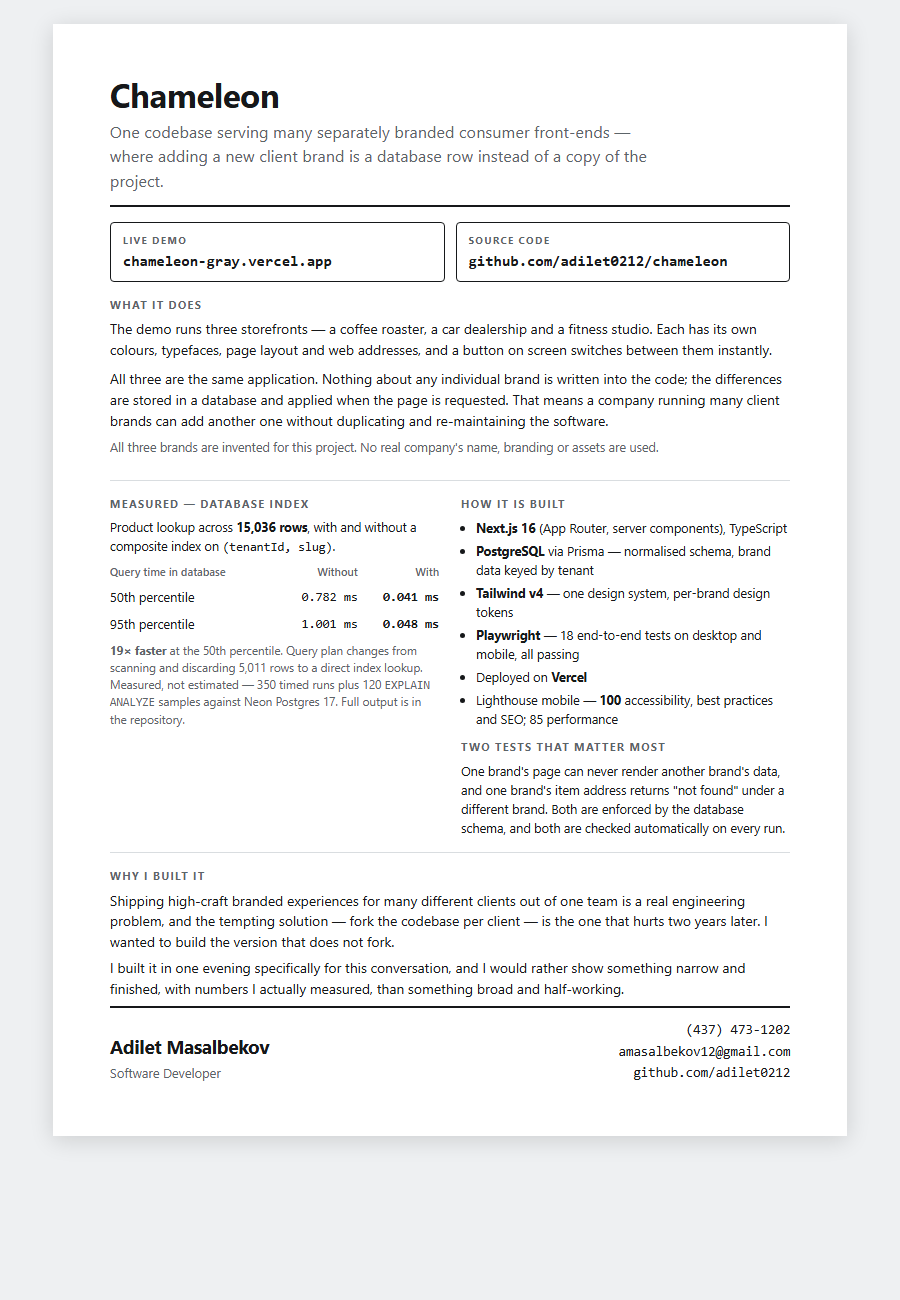
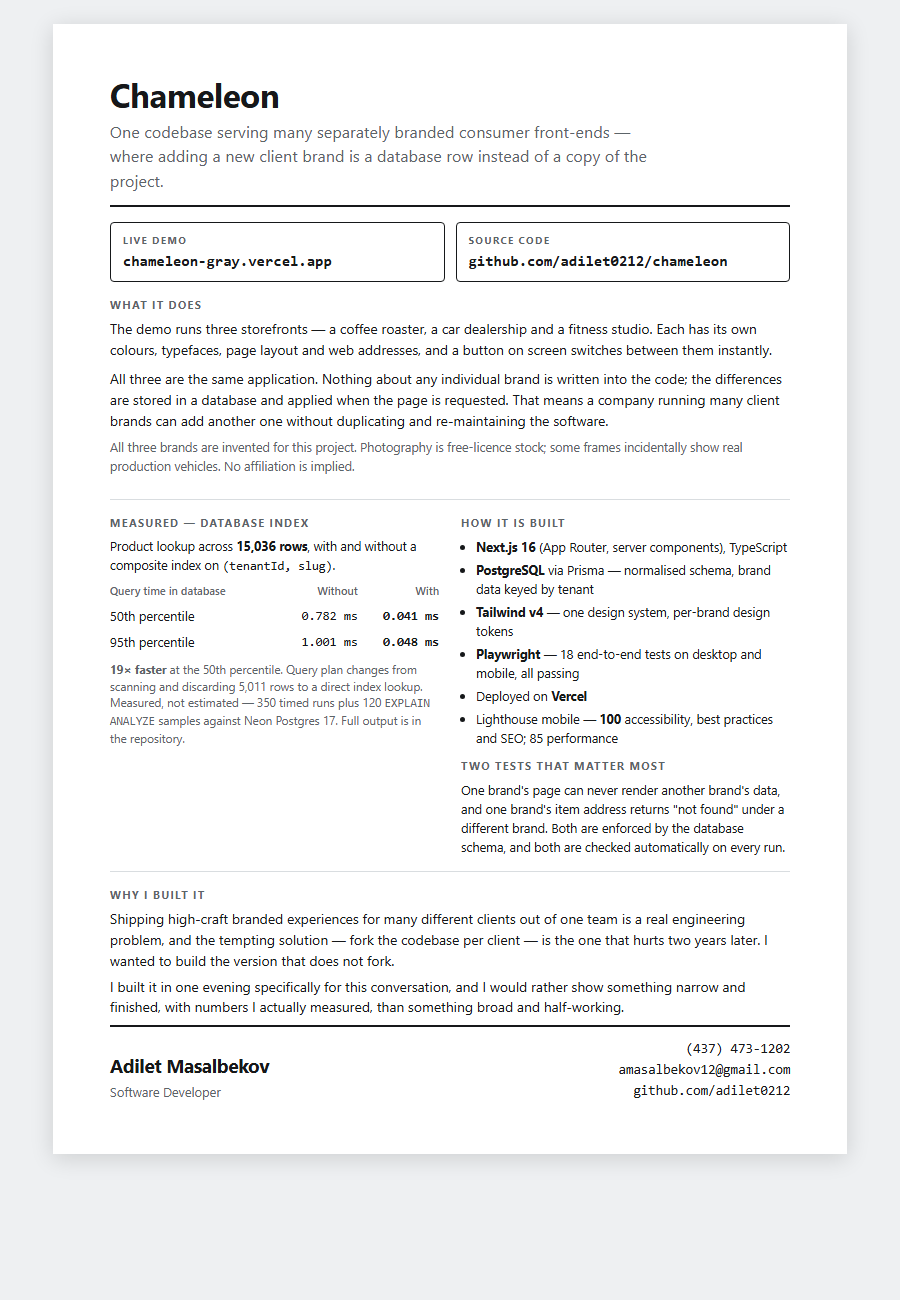
Revert supplied vehicle photography and make the provenance claims accurate
The two supplied images were press photographs of real badged vehicles with
unverified licensing, wired to listings in a project that claimed no real marks
appeared. Both are removed and those listings are back on free-licence stock.

Swapping the images was not sufficient on its own. The stock stand-ins are also
photographs of real cars -- the Range Rover frame carries RANGE ROVER across the
hood and a grille badge -- so the original claim was inaccurate regardless of
which set was used. All four places now state what is actually verifiable: the
brands are invented, the photography is free-licence stock, some frames
incidentally show real production vehicles, and no affiliation is implied.

Also drops 3.1MB of committed binaries.

Changed region(s): [[0.0622, 0.3385, 0.9333, 0.8923], [0.1244, 0.3385, 0.4978, 0.5846]]

diff --git a/prisma/seed.ts b/prisma/seed.ts
@@ -5,8 +5,14 @@ const prisma = new PrismaClient();
 /*
   Seed data.
 
-  All three brands are fictional. Names, copy, colours and imagery are invented for
-  this project — no real company's marks or assets appear anywhere in this repo.
+  All three brands are fictional: the names, copy, palettes, typography and page
+  layouts are invented for this project.
+
+  Photography is free-licence stock from Unsplash. Some frames incidentally show
+  real production vehicles and their badging — unavoidable when the subject is a
+  car and the source is a stock library — so the accurate claim is that the
+  *brands* are invented, not that no real mark appears in any photograph. Nothing
+  here implies affiliation with or endorsement by any real company.
 
   Two tiers of product data:
     - A hand-written set per brand. These are what a visitor actually sees and
@@ -293,7 +299,7 @@ const northaven = {
     },
     {
       slug: "haulmark-1500",
-      imageUrl: "/vehicles/fordpickup.png",
+      imageUrl: "https://images.unsplash.com/photo-1563720223185-11003d516935",
       name: "Haulmark 1500",
       blurb: "Half-ton pickup. 3.5L V6, 4x4.",
       description:
@@ -303,7 +309,7 @@ const northaven = {
     },
     {
       slug: "haulmark-2500-hd",
-      imageUrl: "/vehicles/ram.jpg",
+      imageUrl: "https://images.unsplash.com/photo-1533473359331-0135ef1b58bf",
       name: "Haulmark 2500 HD",
       blurb: "Three-quarter ton. Diesel.",
       description:
@@ -364,7 +370,7 @@ const northaven = {
     },
     {
       slug: "haulmark-1500-cpo-2020",
-      imageUrl: "/vehicles/ram.jpg",
+      imageUrl: "https://images.unsplash.com/photo-1563720223185-11003d516935",
       name: "Haulmark 1500 — Certified, 2020",
       blurb: "112,000 km. Fleet-maintained.",
       description:

diff --git a/src/app/page.tsx b/src/app/page.tsx
@@ -150,7 +150,9 @@ export default async function Index() {
 
       <footer className="mt-16 border-t border-hairline pt-8 text-sm text-muted">
         <p>
-          All three brands are fictional. Built by Adilet Masalbekov ·{" "}
+          All three brands are fictional — names, copy, palettes and layouts are
+          invented for this project. Photography is free-licence stock from
+          Unsplash. Built by Adilet Masalbekov ·{" "}
           <a
             href="https://github.com/adilet0212"
             className="font-medium text-ink underline underline-offset-4"

diff --git a/docs/handout.html b/docs/handout.html
@@ -128,7 +128,7 @@
     without duplicating and re-maintaining the software.
   </p>
   <p style="font-size:9.4pt;color:var(--muted);">
-    All three brands are invented for this project. No real company's name, branding or assets are used.
+    All three brands are invented for this project. Photography is free-licence stock; some frames incidentally show real production vehicles. No affiliation is implied.
   </p>
 
   <hr class="hr" />

diff --git a/PREP.md b/PREP.md
@@ -359,7 +359,10 @@ Fixed nothing, as instructed. In rough order of how bad it'd be if opened live:
 2. **Three conflicting benchmark numbers:** README 18.8x / schema comment 18.6x / committed JSON 18.2x. (§0.1)
 3. **Wrong path in a comment:** `schema.prisma:45` cites `src/components/layouts`, which doesn't exist.
 4. **Wrong viewport in README:** `README.md:185` says 390×844; `playwright.config.ts:32` is `Pixel 7`.
-5. **Real trademarked vehicles in a project that claims otherwise.** `public/vehicles/fordpickup.png` (Ford oval on the grille) and `ram.jpg` (RAM + Hennessey "Mammoth" badging) are wired to the two Haulmark listings. Meanwhile the repo states "no real company's marks or assets appear here" in **four places**: `README.md:8`, `docs/handout.html:131`, `prisma/seed.ts:8-9`, `src/app/page.tsx:153`. **Konrad's client list includes Kia — an automotive engineer will clock a Ford press shot instantly.** Their provenance is also unverified; the rest of the photography is free-licence Unsplash. If you have ten minutes tonight, either swap those two back or soften those four claims. If asked cold: *"Those two are placeholders a friend sent me and I wired them in late — the licensing isn't verified and they contradict the fictional-brands claim. They should come out."*
+5. *(Resolved.)* The two supplied press photos of real badged vehicles are gone — `public/vehicles/` is deleted and those listings are back on free-licence Unsplash stock. **The four claims were rewritten at the same time, and this is the part worth understanding**: swapping the images alone would not have made "no real company's marks appear here" true, because the Unsplash stand-ins are also photographs of real cars — the Range Rover shot has RANGE ROVER across the hood and a Land Rover grille badge. Free-licence stock of a car shows the car's marks. So all four now claim the accurate, verifiable thing: *the brands are invented; the photography is free-licence stock and some frames incidentally show real production vehicles; no affiliation is implied.*
+
+   If anyone raises it: *"The brands are entirely invented — names, copy, palettes, layouts. The photography is free-licence Unsplash, and stock photos of cars have badges on them, so I say that explicitly rather than claiming something I can't back."* That is a better answer than the original claim was.
+
 6. **`ram.jpg` was supplied as `ram.png`** — a JPEG with a PNG extension. I renamed it. Harmless, but if you `git log` live, the rename is visible.
 7. **`console.log` calls exist** but only in CLI scripts (`prisma/seed.ts`, `scripts/*`) where they are the intended output. **None in `src/`.** Clean.
 8. **No committed secrets.** `.env` is gitignored, only `.env.example` is tracked. I verified. Note your Neon credentials were pasted in plaintext during setup — **rotate them after the interview** regardless.
@@ -431,7 +434,7 @@ Say **"I didn't get to that"** — do not improvise. Each of these is a real gap
 ## Final checklist for tonight
 
 - [x] ~~Re-run `npm run benchmark`~~ — done, all four files synced to the same run (19.1x)
-- [ ] Decide on the two truck images (§7.5) — swap back or soften the four claims
+- [x] ~~Decide on the two truck images~~ — reverted to Unsplash, all four claims rewritten to be accurate
 - [ ] Rotate the Neon credentials after tomorrow
 - [ ] Open the live site on your phone once on cellular, not wifi
 - [ ] Know these five line numbers cold: `middleware.ts:49`, `layout.tsx:44`, `theme.ts:30`, `HomeLayouts.tsx:517`, `schema.prisma:151`

diff --git a/README.md b/README.md
@@ -5,7 +5,7 @@
 - **Live demo:** https://chameleon-gray.vercel.app
 - **Source:** https://github.com/adilet0212/chameleon
 
-Three storefronts run on this deployment — a coffee roaster, an automotive dealer, and a fitness studio. They have different colours, typefaces, corner radii, imagery treatments, navigation labels and URL structures, and there is no per-brand code anywhere in the repository. All three brands are fictional; no real company's marks or assets appear here.
+Three storefronts run on this deployment — a coffee roaster, an automotive dealer, and a fitness studio. They have different colours, typefaces, corner radii, imagery treatments, navigation labels and URL structures, and there is no per-brand code anywhere in the repository. All three brands are fictional — names, copy, palettes, typography and layouts are invented for this project. Photography is free-licence stock from Unsplash; some frames incidentally show real production vehicles and their badging, which is unavoidable when the subject is a car and the source is a stock library. No affiliation with any real company is implied.
 
 |  |  |  |
 | :---: | :---: | :---: |
